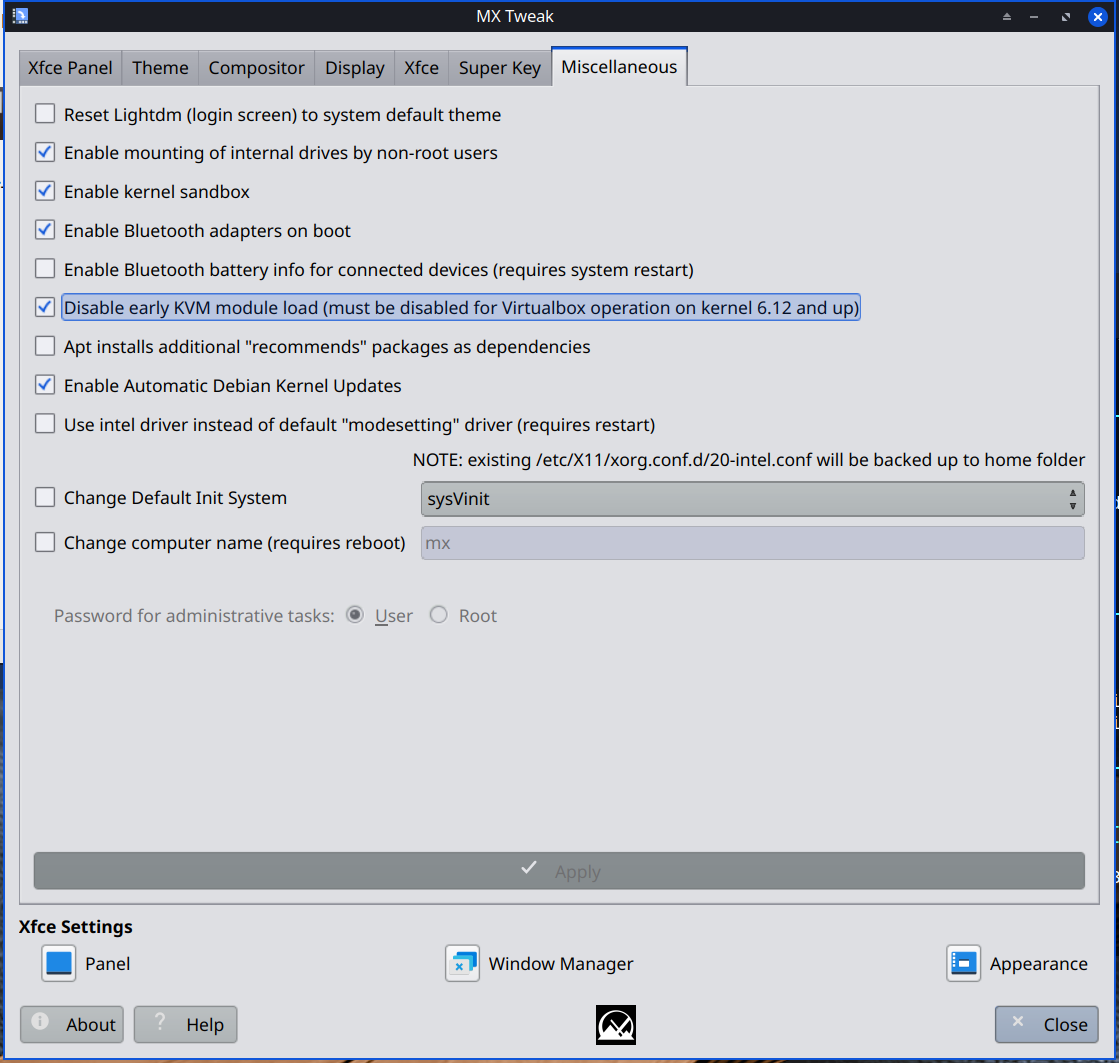
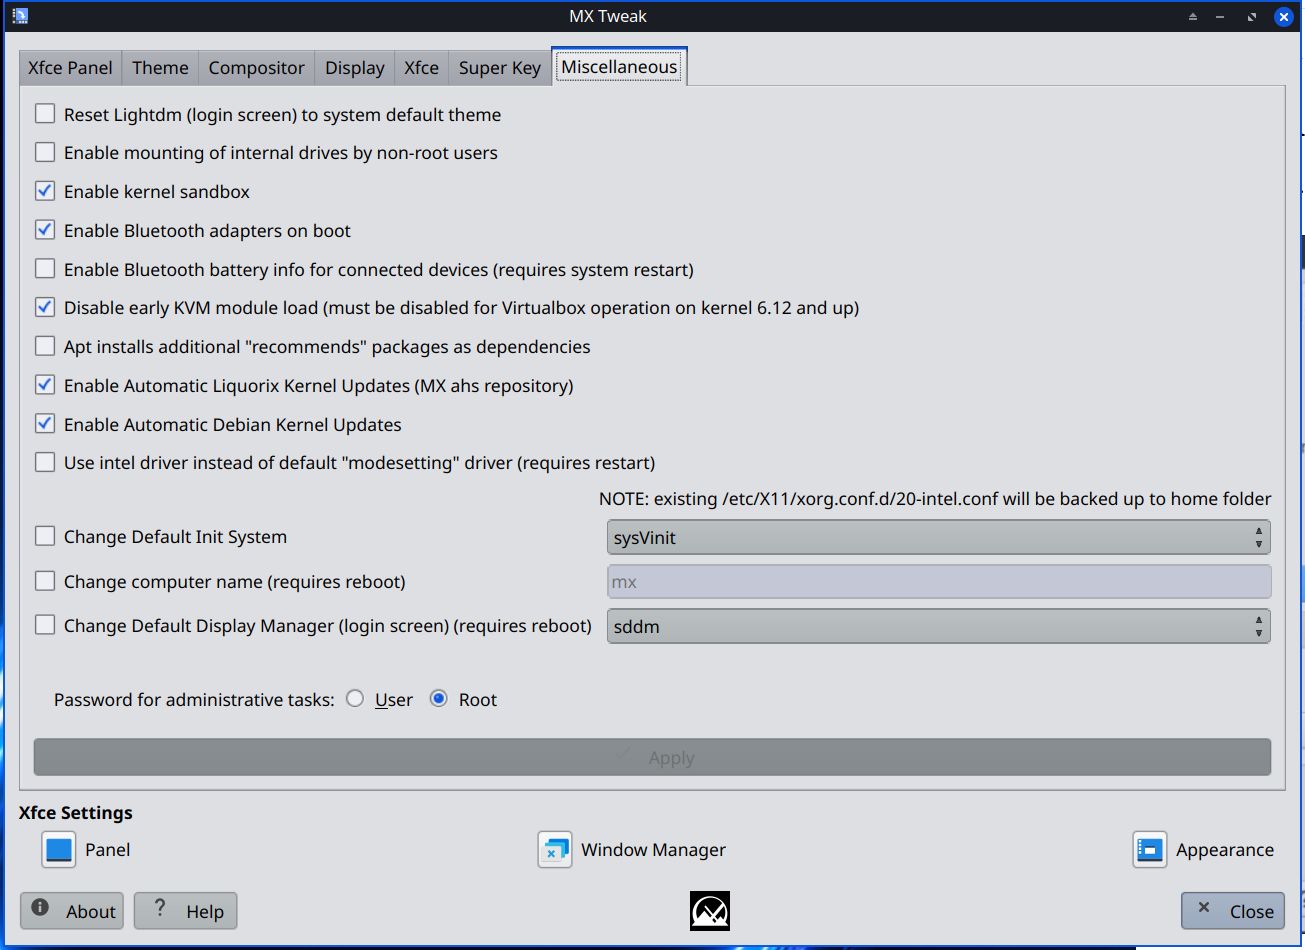
update help

Changed region(s): [[0.0, 0.0, 1.0, 1.0], [0.3342, 0.58, 0.3646, 0.6105], [0.3038, 0.5495, 0.3342, 0.58]]

diff --git a/help/mx-tweak.html b/help/mx-tweak.html
@@ -9,11 +9,11 @@
 <h1>HELP: MX Tweak</h1>
 <p>MX Tweak brings together a number of small but often used customizations. Related settings applications native to Xfce are presented below for the user&#8217;s convenience.</p>
 
-<h2>Panel</h2>
+<h2>Xfce Panel</h2>
 
 <p>Allows the user to make quick user interface changes to system defaults.</p>
 
-<img src="1-2a.png" alt="MX Tweak" />
+<img src="1-2a.png" alt="MX Tweak" width="600" />
 
 <p>The user may select to display the default panel horizontally (top or bottom) or vertically (left&#8211;default&#8211;or right).  Customizations, including panel plugins,will be preserved, although plugin location might be altered. </p>
 
@@ -31,7 +31,7 @@ Tasklist refers to the area of the panel that contains icons with running applic
 
 <h2>Theme</h2>
 
-<img src="tweak-theme-1.jpg" alt="Xfce Theme options" />
+<img src="tweak-theme-1.png" alt="Xfce Theme options" width="600"/>
 
 <p>The theme tab offers a quick way to set various theming choices.  The options presented depend on desktop in use, but they should be relatively self-explanatory.</p>
 <p>Xfce & Fluxbox users user may select Gtk theme, window manager theme, icon theme and cursor theme on this tab.  Xfce users can also use pre-configured theme sets from the drop down combo box.</p>
@@ -45,7 +45,7 @@ Tasklist refers to the area of the panel that contains icons with running applic
 
 <p>Here the user may select whether to use a <a href="https://en.wikipedia.org/wiki/Compositing_window_manager" aria-label="compositing window manager">compositing window manager</a>, and which compositor to use.</p>
 
-<img src="tweak-compositor-2.jpg" alt="Compositor" />
+<img src="tweak-compositor-2.png" alt="Compositor" width="600"/>
 
 <h3>Xfwm (Xfce) compositor</h3>
 
@@ -92,15 +92,15 @@ cards.</p>
 
 <h2>Xfce</h2>
 
-<img src="4-1.jpg" alt="config" />
+<img src="4-1.png" alt="config" width="600"/>
 
-<p>Config options contains a few special items pertaining to the Xfce system configuration.  Most items are self-explanatory.</p>
+<p>Xfce options contains a few special items pertaining to the Xfce system configuration.  Most items are self-explanatory.</p>
 
 <p>Occasionally the thunar custom right-click actions maybe be updated.  While these updated configurations will be present on the system, they will not go into effect automatically for upgraders.   The &#8220;Reset&#8221; actions will change any thunar custom actions to the latest MX defaults.</p>
 
 <h2>Fluxbox</h2>
 
-<img src="fluxbox-1.jpg" alt="fluxbox" />
+<img src="fluxbox-1.png" alt="fluxbox" width="600"/>
 
 <p>This tab is only visible when the user is running MX-Fluxbox.</p>
 
@@ -116,7 +116,7 @@ cards.</p>
 
 <h2>Plasma</h2>
 
-<img src="plasma.jpg" alt="plasma" />
+<img src="plasma.png" alt="plasma" width="600"/>
 
 <p>This tab is only visible when the user is running KDE/Plasma.</p>
 
@@ -124,7 +124,7 @@ cards.</p>
 
 <h2>Display</h2>
 
-<img src="display-1.jpg" alt="Display" /> <img src="tray-app-1.jpg" alt="System Tray" />
+<img src="display-1.png" alt="Display" width="600"/> <img src="tray-app-1.jpg" alt="System Tray" />
 
 
 <p>On MX19 and later, a Display tab is available for Xfce users.  Here you can control the backlight, xrandr brightness, resolution, gtk scaling and the hidden xrandr scaling available under Xfce</p>
@@ -143,9 +143,9 @@ cards.</p>
         <li>All settings except for backlight and GTK scaling on are a per-user and per-display basis.  Select the proper Display from the Dropdown box.</li>
 	</ul>
     
-<h2>Other</h2>
+<h2>Miscellaneous</h2>
 
-<img src="5-1.png" alt="other options" />
+<img src="5-1.png" alt="other options" width="600"/>
 
 <p>Configuration options on this tab require admin privledges before they go into effect.  The user will be prompted for the current admin password on apply.</p>
 
@@ -171,7 +171,7 @@ cards.</p>
 
 <h2>Superkey</h2>
 
-<img src="superkey.png" alt="superkey" />
+<img src="superkey.png" alt="superkey" width="600"/>
 
 <p>Xfce users running the default xfce-superkey utility will be able to customize what their super key does here.</p>
 